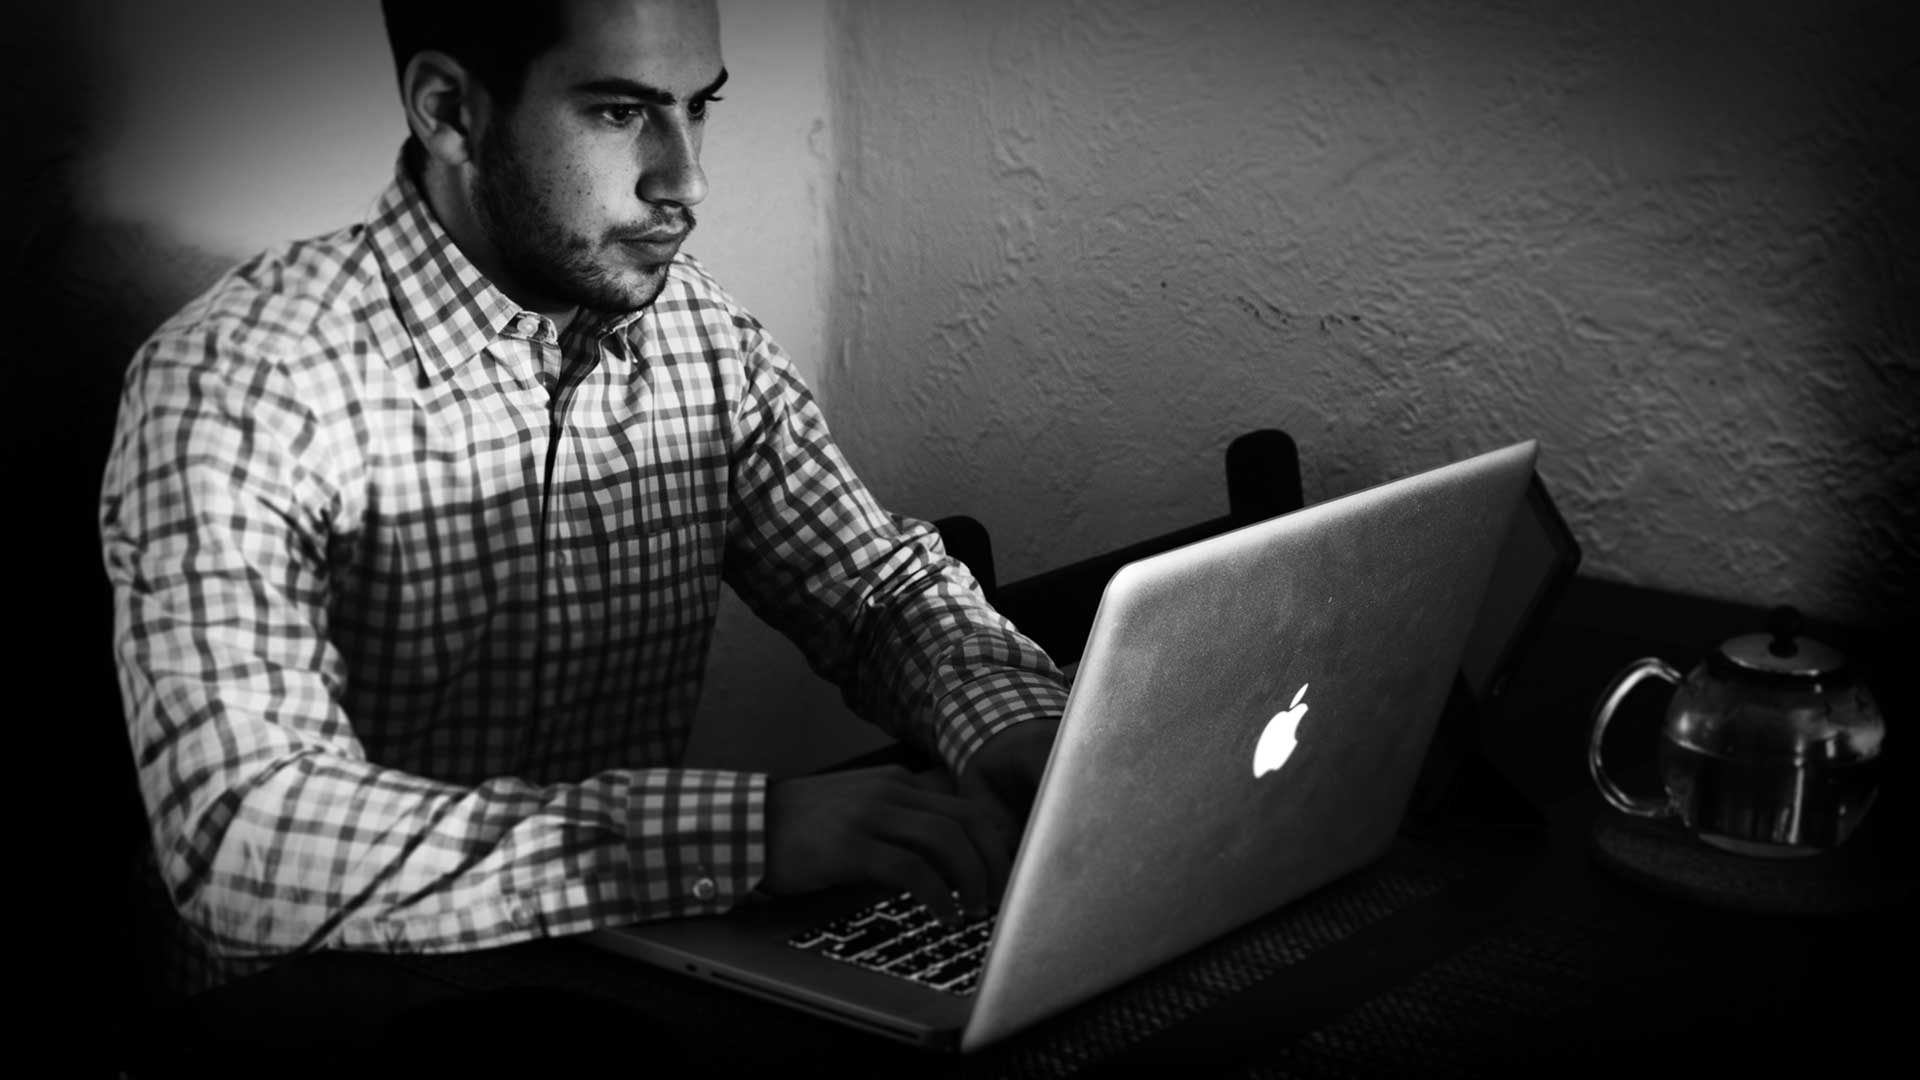
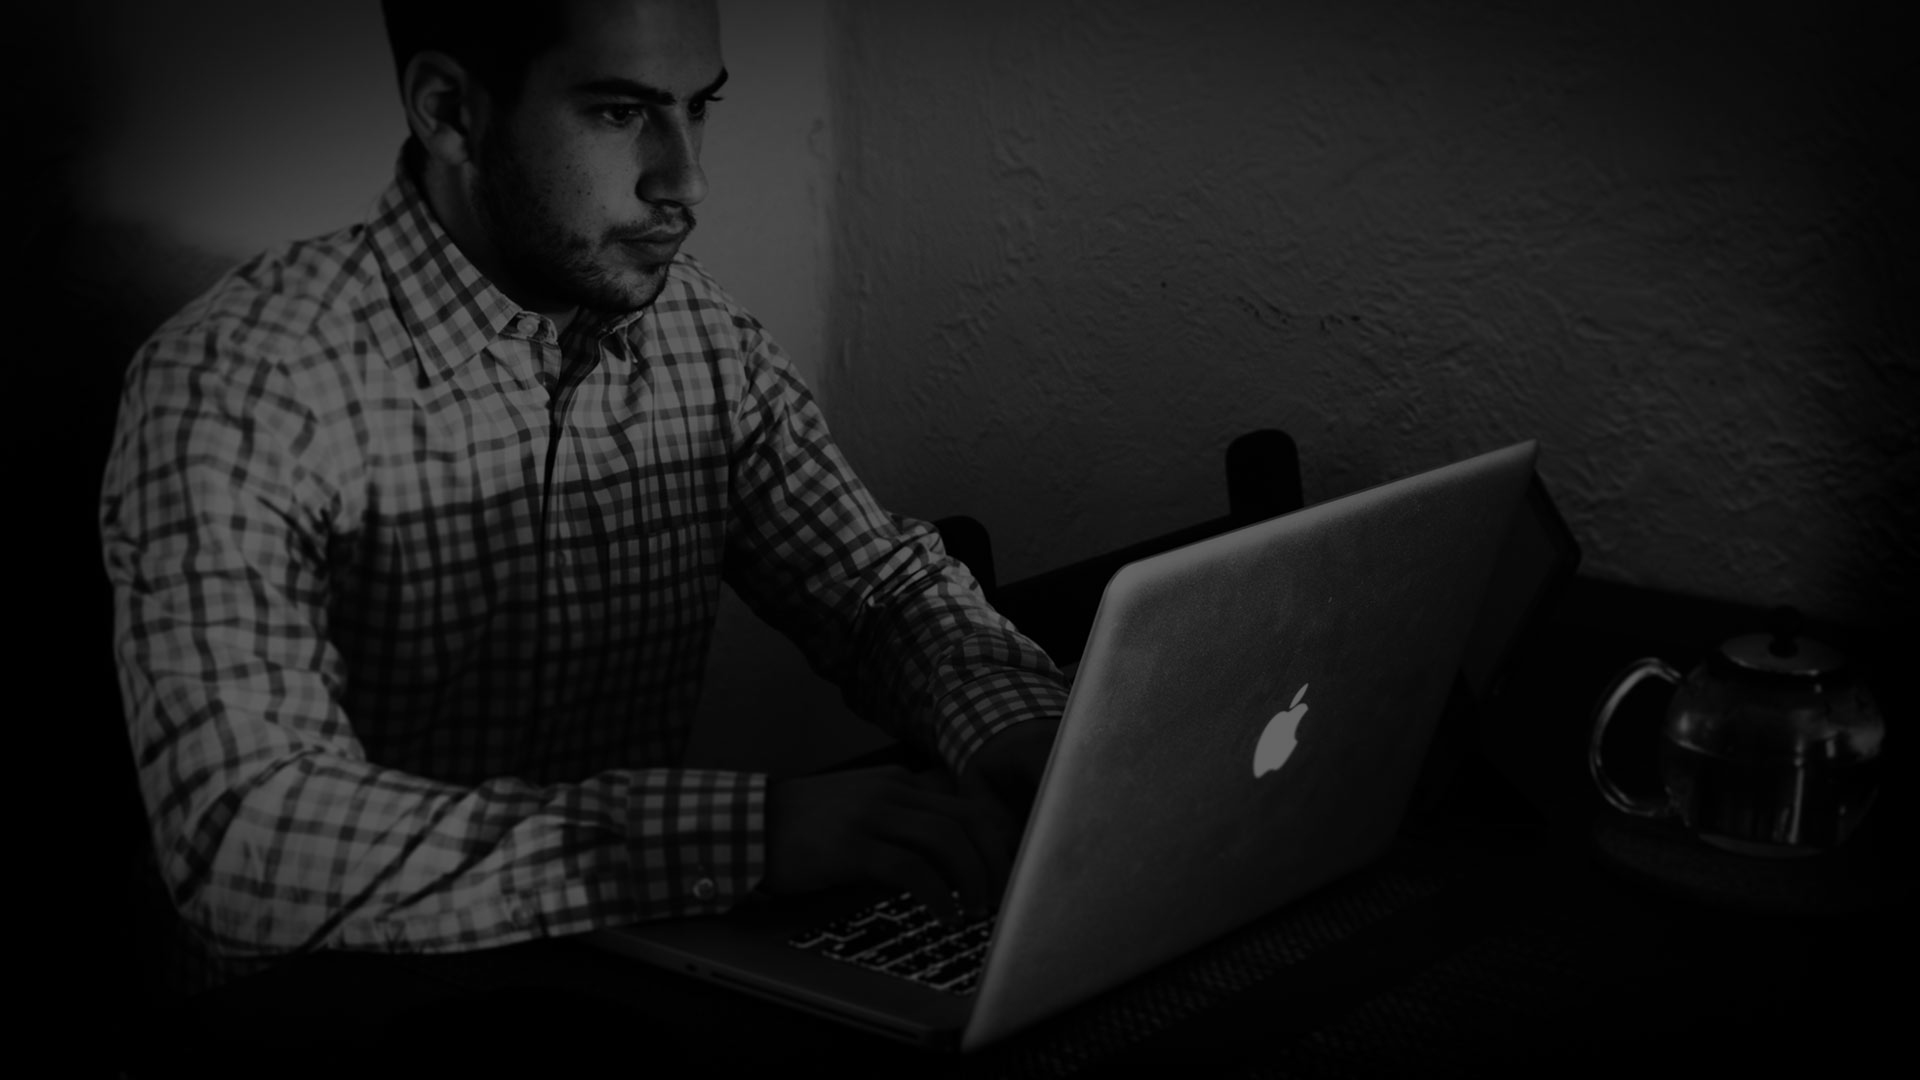
Added work peices and other styles

diff --git a/app/index.html b/app/index.html
@@ -28,7 +28,11 @@
 
     <div class="main-wrapper">
         
-        <header id="home" class="hero" class="bg_parralax" data-type="background" data-speed="5"></header> 
+        <header id="home" class="hero" class="bg_parralax" data-type="background" data-speed="5">
+          <div class="container">
+            <img src="/images/logo-white.png"/>
+          </div>
+        </header> 
 
         <section id="about">
             <div class="container">
@@ -66,7 +70,7 @@
                         </ul>   
                     </div>
                     <div class="skill-wrapper">
-                        <div class="icon-development"><img  data-src="images/development.svg"/></div>
+                        <div class="icon-development"><img data-src="images/development.svg"/></div>
                         <h3>Development</h3>
                         <ul>
                             <li>HTML5</li>
@@ -76,7 +80,7 @@
                         </ul>  
                     </div>
                     <div class="skill-wrapper">
-                        <div class="icon-tools"><img  data-src="images/tools.svg"/></div>
+                        <div class="icon-tools"><img data-src="images/tools.svg"/></div>
                         <h3>Tools</h3>
                         <ul>
                             <li>Git / SVN</li>
@@ -101,24 +105,61 @@
                         <p>Landing page targeted to show the simplicity of selling tickets online.</p>
                     </footer>
                 </article>
+                <article class="work-peice">
+                    <img src="images/error-page.jpg" title="Error Page Template" alt="Error Page Template" />
+                    <header><h3><a href="http://www.vividseats.com/404.html" title="Error Page Template" target="_blank">Error Page Template</a></h3></header>
+                    <footer>
+                        <p>An error page template designed to serve up multiple HTTP status messages.</p>
+                    </footer>
+                </article>
+                <article class="work-peice">
+                    <img src="images/event-page.jpg" title="Event Page" alt="Event Page" />
+                    <header><h3>Event Page Concept</h3></header>
+                    <footer>
+                        <p>A simplified event page concept to be A/B tested.</p>
+                    </footer>
+                </article>
+                <article class="work-peice">
+                    <img src="images/multi-package.jpg" title="Package Builder" alt="Package Builder" />
+                    <header><h3>Package Builder</h3></header>
+                    <footer>
+                        <p>Package builder concept designed for simple customization.</p>
+                    </footer>
+                </article>
+                <article class="work-peice">
+                    <img src="images/company-nav.jpg" title="Company Navigation" alt="Company Navigation" />
+                    <header><h3>Company Navigation</h3></header>
+                    <footer>
+                        <p>Off-canvas company navigation concept.</p>
+                    </footer>
+                </article>
+                <article class="work-peice">
+                    <img src="images/wts-checkout.jpg" title="World Ticket Source Checkout" alt="World Ticket Source Checkout" />
+                    <header><h3><a href="http://www.worldticketsource.com" title="World Ticket Source " target="_blank">World Ticket Source Checkout</a></h3></header>
+                    <footer>
+                        <p>World Ticket Source checkout and order confirmation skin.</p>
+                    </footer>
+                </article>
         </section>
 
         <section id="contact">
             <div class="container">
                 <header>
                     <h2>Contact</h2>
+                    <div class="availability color-green"><span class="status green"></span>Available for freelance</div>
+                    <p>Like what you see? Say 'hi' using any of the methods below!</p>
                 </header>
                 <div class="center">
-                    <i class="fa fa-envelope"></i>
-                    <i class="fa fa-linkedin"></i>
-                    <i class="fa fa-dribbble"></i>
+                    <a href="mailto:kevindsimon@aol.com?Subject=Portfolio%20Contact" title="Email Me"><i class="fa fa-envelope email"></i></a>
+                    <a href="http://www.linkedin.com/pub/kevin-simon/27/4b5/412" target="_blank" title="Connect with me on LinkedIn"><i class="fa fa-linkedin linkedIn"></i></a>
+                    <a href="https://dribbble.com/KevinDSimon" target="_blank" title="View more of my work on Dribbble"><i class="fa fa-dribbble dribbble"></i></a>
                 </div>
         </section>           
 
     </div><!-- main wrapper -->
 
     <img src="images/floating-logo.png" class="logo">
-    <!--<div class="lines"><span></span></div>
+    <div class="lines"><span></span></div>
     <div class="overlay overlay-hugeinc">
         <nav>
             <ul>
@@ -129,7 +170,7 @@
                 <li><a href="#contact">Contact</a></li>
             </ul>
         </nav>
-    </div>-->
+    </div>
 
 
     <!-- build:js(.) scripts/vendor.js -->

diff --git a/app/styles/main.scss b/app/styles/main.scss
@@ -59,7 +59,7 @@ header {
 .container {
     border-bottom:  1px solid #E5E5E5;
     margin:  0 auto;
-    padding:  100px 30px;
+    padding:  8% 30px;
     max-width:  1024px;
 }
 .btn {
@@ -115,9 +115,6 @@ h3 {
     right: 85px;
     top:  40px;
     z-index:  15;
-    @media (max-width: 768px) {
-        display: none;
-    }
     @include transition(all 0.1s ease-in-out);
         &.black span {
             background:  black;
@@ -218,7 +215,7 @@ h3 {
         }
 }
 
-/*Main*/
+/*Hero*/
 .hero {
     background: url('../images/me-bw.jpg');
     background-color:  #222;
@@ -231,7 +228,14 @@ h3 {
     position: relative;
     height:  100vh;
     width:  100vw;
-    text-align: center;
+    text-align: center; 
+      .container {
+        border-bottom: none;
+      }
+      img {
+        margin-top: 10%;
+        width: 25%;
+      }
 }
 .logo {
     position: fixed;
@@ -243,10 +247,46 @@ h3 {
     background-size: cover;
 }
 
+/* Animate.css - http://daneden.me/animate - Licensed under the MIT license - http://opensource.org/licenses/MIT - Copyright (c) 2013 Daniel Eden */
+.animated {
+    @include animation-duration(1s);
+    @include animation-fill-mode(both);
+}
+@keyframes fadeInDown {
+    0% {
+        opacity: 0;
+        @include translate3d(0,-100%,0);
+    }
+    100% {
+        opacity: 1;
+        @include transform(none);
+    };
+}
+.fadeInDown {
+    @include animation-name(fadeInDown);
+}
+
+@keyframes zoomIn {
+  0% {
+    opacity: 0;
+    @include scale3d(.3, .3, .3);
+  }
+  50% {
+    opacity: 1;
+  }
+}
+.zoomIn {
+  @include animation-name(zoomIn);
+}
+
 /* Skills */
 #skills article {
     display: flex;
+    flex-direction: row;
     margin-top:  24px;
+      @media screen and (max-width: 768px) {
+        flex-direction: column;
+      }
 }
 .skill-wrapper {
     flex: 1;
@@ -280,40 +320,32 @@ h3 {
             @include animation-delay(1s);
         }
 }
-/* Animate.css - http://daneden.me/animate - Licensed under the MIT license - http://opensource.org/licenses/MIT - Copyright (c) 2013 Daniel Eden */
-.animated {
-    @include animation-duration(1s);
-    @include animation-fill-mode(both);
-}
-@keyframes fadeInDown {
-    0% {
-        opacity: 0;
-        @include translate3d(0,-100%,0);
-    }
-    100% {
-        opacity: 1;
-        @include transform(none);
-    };
-}
-.fadeInDown {
-    @include animation-name(fadeInDown);
-}
-
 
 /* About */
 #about  article {
     display: flex;
+    flex-direction: row;
         div {
             flex: 1;
             padding: 0 15px 0 0;
                 + div {
                     padding: 0 0 0 15px;
+                      @media screen and (max-width: 768px) {
+                        padding: 0;
+                      }
                 }
+          @media screen and (max-width: 768px) {
+            padding: 0;
+          }  
         }
+    @media screen and (max-width: 768px) {
+      flex-direction: column;
+    }
 }
 
 /*Work*/
 .work-peice {
+    margin-bottom: 100px;
     text-align: left;
     img {
         margin-bottom: 28px;
@@ -322,7 +354,6 @@ h3 {
         text-align: left;
             a {
                 color: black;
-                @include transition(all 0.3s ease-in-out);
                     &:after {
                         content: "\f178";
                         color: #ccc;
@@ -330,11 +361,15 @@ h3 {
                         @include adjust-font-size-to(16px);
                         margin-left: 7px;
                         font-family: 'FontAwesome';
+                        @include transition(all 0.3s ease-in-out);
                     }
             }
     }
     p {
         width: 40%;
+          @media screen and (max-width: 768px) {
+            width: 100%;
+          }
     }
     a:hover:after {
         color: black;
@@ -342,9 +377,34 @@ h3 {
 }
 
 /*Contact*/
-#contact .fa {
+#contact a .fa {
     @include adjust-font-size-to(36px);
     padding: 0 20px;
+    color: black;
+}
+.availability {
+  margin-bottom: 8px;
+}
+.status {
+  width: 7px;
+  height: 7px;
+  border-radius: 5px;
+  display: inline-block;
+  margin-right: 10px;
+  position: relative;
+  top: -1px;
+}
+.color-green {
+  color: $brand;
+}
+.color-red {
+  color: #DC1F26
+}
+.status.green {
+  background-color: $brand;
+}
+.status.red {
+  background-color: #DC1F26;
 }
 
 

diff --git a/app/scripts/main.js b/app/scripts/main.js
@@ -2,7 +2,7 @@ $(document).ready(function() {
     //Smooth Scroll
     $(function() {
       $('a[href*=#]:not([href=#])').click(function() {
-        if (location.pathname.replace(/^\//,'') == this.pathname.replace(/^\//,'') && location.hostname == this.hostname) {
+        if (location.pathname.replace(/^\//,'') === this.pathname.replace(/^\//,'') && location.hostname === this.hostname) {
           var target = $(this.hash);
           target = target.length ? target : $('[name=' + this.hash.slice(1) +']');
           if (target.length) {
@@ -17,7 +17,7 @@ $(document).ready(function() {
     //Toggle hamburger icon
     $('.lines').click(function(){
         $('.lines').toggleClass('close');
-        $('.overlay').toggleClass('open')
+        $('.overlay').toggleClass('open');
     });
     //Parallax
     $objWindow = $(window);
@@ -35,7 +35,7 @@ $(document).ready(function() {
     //Waypoints
     $('#about').waypoint(function(direction) {
         // hide logo 1200 and under
-        if ($(window).width() <= 1220){ 
+        if ($(window).width() <= 1224){ 
             $('.logo').hide();
         }
         // do this on the way down
@@ -49,8 +49,8 @@ $(document).ready(function() {
             $('.logo').fadeOut('slow');
         }       
     });
-    // Unveil Images
-    $("#skills img").unveil(-100,function() {
+    // Unveil
+    $('#skills img').unveil(-100,function() {
         $(this).addClass('animated fadeInDown');
     });
 });
